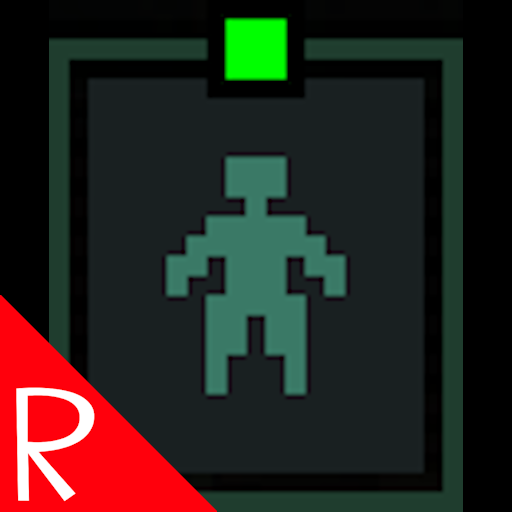
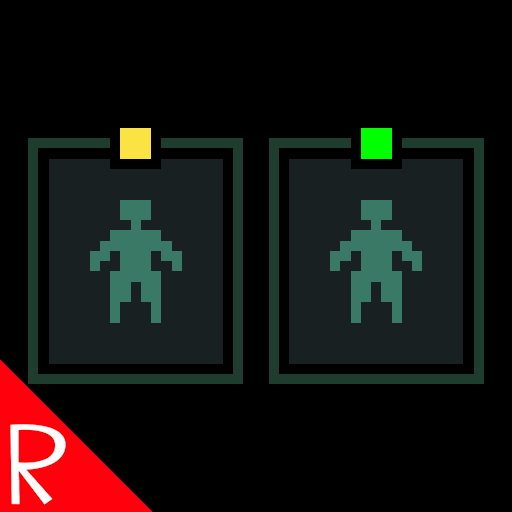
mod tags update

diff --git a/README.md b/README.md
@@ -1,8 +1,16 @@
-# Quasimorph ImplantIndicator
-
 ![thumbnail icon](media/thumbnail.png)
 
 # Implant indicator
+
+Changes the implant/augment indicator to green if the creature has an implant.  Color can be configured.
+
+The UI will be:
+
+|Augment|Implant|Indicator Dot|
+|--|--|--|
+|❌|❌|Not shown|
+|✔|❌|Yellow|
+|❌|✔|Green|
 
 Recolors the implant indicator in creature and corpse inspection windows when the inspected creature has one or more installed implants.
 
